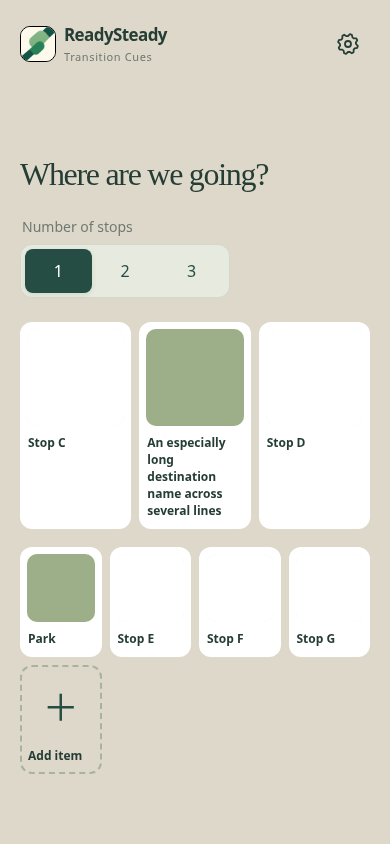
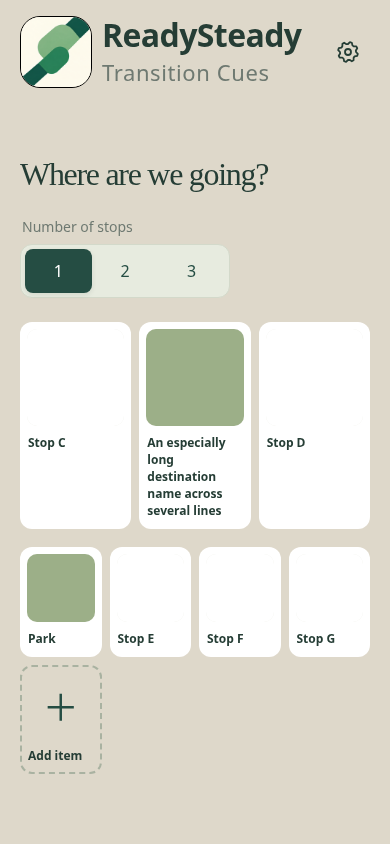
Enlarge opening branding with responsive sizing in v1.0.33

Changed region(s): [[0.0308, 0.0, 0.7692, 0.1232], [0.8615, 0.0308, 0.9231, 0.0924]]

diff --git a/transition_cues/transition-cues-web/style.css b/transition_cues/transition-cues-web/style.css
@@ -26,7 +26,7 @@
 .locked{--companion-size:clamp(64px,10vh,100px);--companion-card:clamp(76px,12vh,120px);--photo-shadow:0 5px 16px #253d351f}
 .locked .cue-card img{border:0;object-fit:cover;box-shadow:var(--photo-shadow)}.locked .person-card img{border:0;box-shadow:var(--photo-shadow)}
 .locked .bring-grid{display:flex;flex-wrap:wrap;justify-content:center;gap:12px 22px;max-width:none}.locked .bring-card{width:var(--companion-card)}.locked .bring-card img{width:var(--companion-size);height:var(--companion-size);border:0;border-radius:14px;object-fit:cover;padding:0;box-shadow:var(--photo-shadow)}
-@media(max-width:620px){.header .brand{font-size:17px;gap:8px}.header .brand img{width:36px;height:36px}.locked{--companion-size:64px;--companion-card:80px}.locked .bring-grid{gap:10px}}
+@media(max-width:620px){.locked{--companion-size:64px;--companion-card:80px}.locked .bring-grid{gap:10px}}
 
 .locked .bring-card figcaption{font-size:clamp(14px,2vh,20px);line-height:1.2}
 
@@ -75,3 +75,8 @@
 .shell:has(#planStep){display:flex;flex-direction:column;min-height:100dvh;padding-bottom:max(20px,env(safe-area-inset-bottom))}.shell:has(#planStep)>.header,#planStep{flex-shrink:0}.wizard-actions{position:static;bottom:auto;margin: auto 0 0;padding-top:24px;flex-shrink:0}.scroll-cue{position:fixed;z-index:5;left:50%;bottom:max(18px,env(safe-area-inset-bottom));transform:translateX(-50%);display:inline-flex;align-items:center;justify-content:center;gap:8px;min-height:44px;padding:10px 16px;border:1px solid #d3d9ca;border-radius:24px;background:var(--green);color:white;box-shadow:0 4px 18px #253d3533;font-size:13px;font-weight:600;white-space:nowrap}.scroll-cue svg{width:20px;height:20px;flex:none}body:has(dialog[open]) .scroll-cue{display:none}
 
 .planner-header+#planStep[data-step="0"]>.wizard-heading{margin-bottom:12px}
+
+/* Larger branding fills the opening header while preserving heading alignment. */
+.planner-header:not(.selection-header){padding-top:12px;padding-bottom:36px}.brand{font-size:38px;line-height:1.1;gap:18px}.brand img{width:84px;height:84px;flex:none;border-radius:20px}.brand small{font-size:22px;line-height:1.3;letter-spacing:.6px;margin-top:8px}
+@media(max-width:620px){.brand{font-size:32px;gap:10px}.brand img{width:72px;height:72px}.brand small{margin-top:6px}.planner-header:not(.selection-header){padding-top:16px;padding-bottom:44px}}
+@media(max-width:380px){.brand{font-size:clamp(24px,7.5vw,28px);gap:10px}.brand img{width:clamp(56px,16vw,64px);height:clamp(56px,16vw,64px)}.brand small{font-size:18px;margin-top:5px}}

diff --git a/tests/browser_display.py b/tests/browser_display.py
@@ -27,6 +27,14 @@ def run(engine):
                 expect(page.locator('#start')).to_be_disabled()
                 expect(page.locator('#pinDialog')).to_have_count(0)
                 expect(page.locator('.nav a')).to_have_count(1)
+                for width,height in [(320,844),(390,844),(768,1024),(1024,768)]:
+                    page.set_viewport_size({'width':width,'height':height})
+                    brand=page.locator('.brand').bounding_box();nav=page.locator('.nav').bounding_box()
+                    assert brand['x']+brand['width']<=nav['x']+1,(width,brand,nav)
+                    assert page.locator('.brand img').bounding_box()['width']>=56
+                    assert nav['y']>=brand['y']-1 and nav['y']+nav['height']<=brand['y']+brand['height']+1,(width,brand,nav)
+                    assert page.evaluate('document.documentElement.scrollWidth<=innerWidth')
+
                 expect(page.get_by_role('link',name='Picture library',exact=True)).to_have_count(0)
                 page.get_by_role('link',name='Settings',exact=True).click()
                 expect(page.get_by_role('heading',name='Manage photos',exact=True)).to_be_visible()

diff --git a/tests/container_smoke.py b/tests/container_smoke.py
@@ -81,5 +81,5 @@ print('PASS: replacement container preserves library and images in /data')
 
 if __name__ == '__main__':
     parser = argparse.ArgumentParser()
-    parser.add_argument('--image', default='transition-cues-ha-check:1.0.32')
+    parser.add_argument('--image', default='transition-cues-ha-check:1.0.33')
     run(parser.parse_args().image)

diff --git a/transition_cues/CHANGELOG.md b/transition_cues/CHANGELOG.md
@@ -1,5 +1,10 @@
 # Changelog
 
+## 1.0.33
+
+- Roughly double the opening logo, ReadySteady title and Transition Cues subtitle, with responsive sizing for narrow phones.
+- Keep the opening heading aligned with subsequent planner headings.
+
 ## 1.0.32
 
 - Align the opening Where are we going? heading with subsequent planner headings on phones and tablets.
